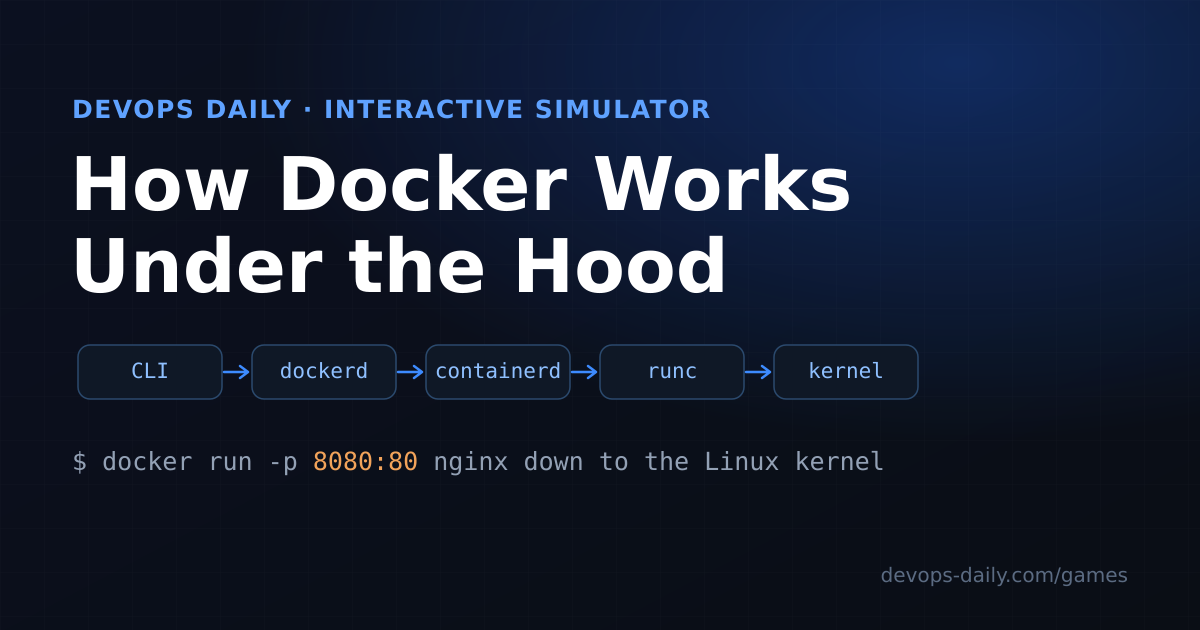
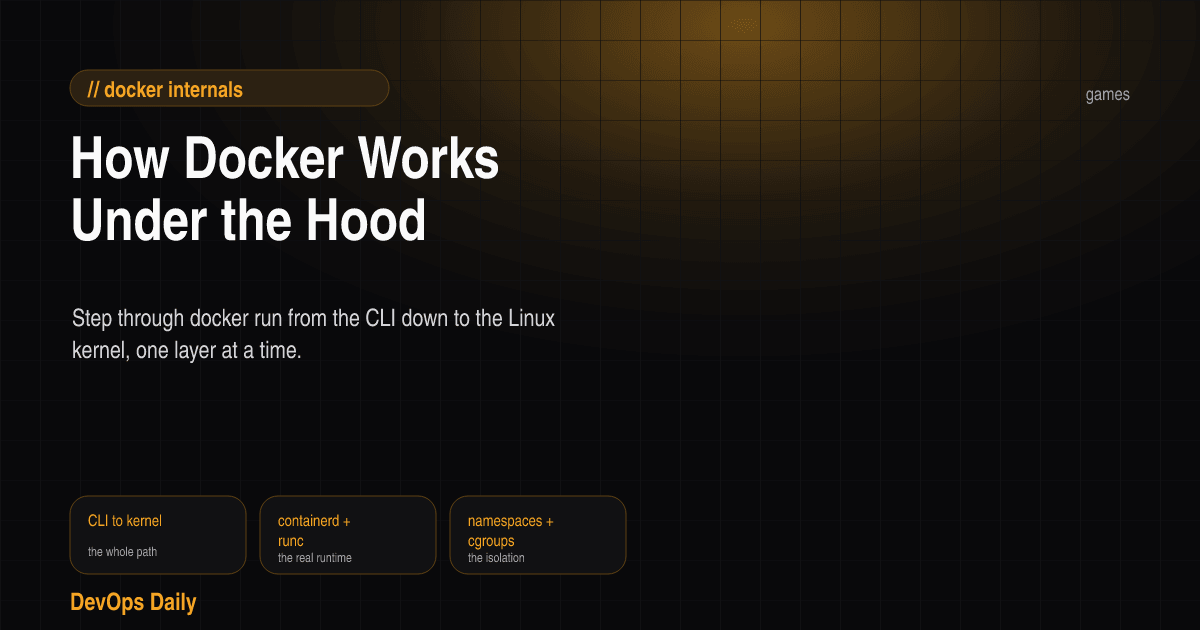
Match the game OG to the shared site OG template
Rebuild the simulator's OG image with buildSiteOgSvg so it matches the other
simulators (amber accent, feature cards, DevOps Daily footer) instead of the
off-brand blue one-off.

diff --git a/scripts/generate-docker-under-the-hood-og.ts b/scripts/generate-docker-under-the-hood-og.ts
@@ -1,0 +1,40 @@
+#!/usr/bin/env tsx
+
+import fs from 'fs/promises';
+import path from 'path';
+import { buildSiteOgSvg, convertSvgToPng } from './og-utils';
+
+/**
+ * OG image for the "How Docker Works Under the Hood" simulator. Uses the shared
+ * site OG template so it matches the other simulators (dark surface, amber
+ * accent, feature cards, DevOps Daily footer) instead of an off-brand one-off.
+ */
+async function main() {
+  const dir = path.join(process.cwd(), 'public/images/games');
+  const svgPath = path.join(dir, 'docker-under-the-hood-simulator-og.svg');
+  const pngPath = path.join(dir, 'docker-under-the-hood-simulator-og.png');
+
+  const svg = buildSiteOgSvg({
+    eyebrow: '// docker internals',
+    title: 'How Docker Works Under the Hood',
+    description:
+      'Step through docker run from the CLI down to the Linux kernel, one layer at a time.',
+    sectionLabel: 'games',
+    features: [
+      { title: 'CLI to kernel', description: 'the whole path' },
+      { title: 'containerd + runc', description: 'the real runtime' },
+      { title: 'namespaces + cgroups', description: 'the isolation' },
+    ],
+  });
+
+  await fs.mkdir(dir, { recursive: true });
+  await fs.writeFile(svgPath, svg, 'utf-8');
+  await convertSvgToPng(svgPath, pngPath);
+  await fs.rm(svgPath);
+  console.log(`Generated ${pngPath}`);
+}
+
+main().catch((error) => {
+  console.error(error);
+  process.exit(1);
+});